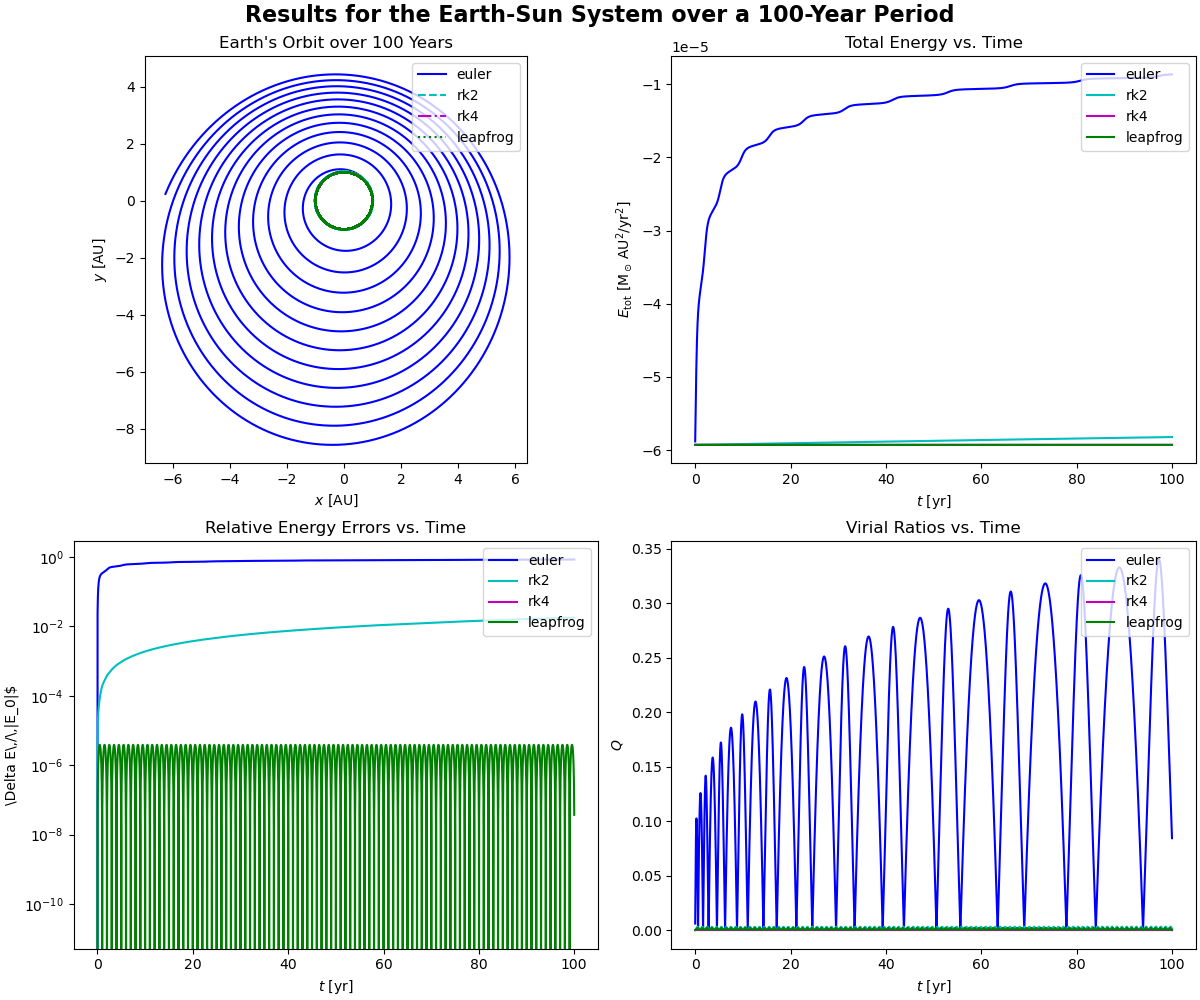
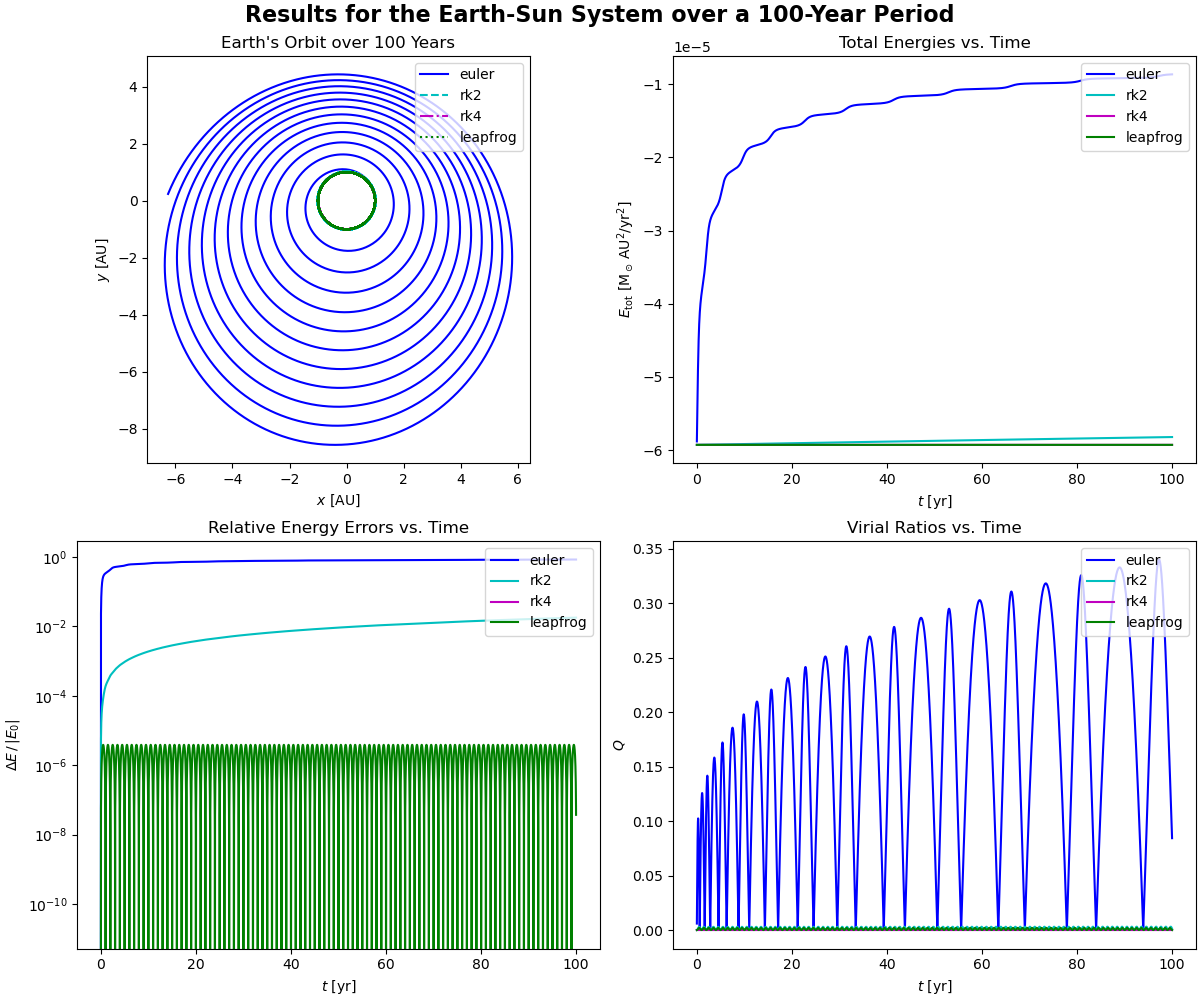
Completed Step 3, Phases A and B

diff --git a/src/NBody.py b/src/NBody.py
@@ -1,5 +1,24 @@
 """
 ODE integrator module to compute and plot gravitational dynamics for N-body system
+
+Table of Contents
+-----------------
+NBodyIntegrator
+
+EarthSun_test()
+EarthSun_plot()
+
+EarthJupiterSun_test()
+EarthJupiterSun_plot()
+
+ClusterUnifMass_test()
+ClusterUnifMass_plot()
+
+Cluster_loop_test()
+Cluster_loop_plot()
+
+Cluster_vecs_test()
+Cluster_vecs_plot()
 """
 
 import numpy as np
@@ -120,19 +139,23 @@ def EarthSun_test(years=10, dt=0.01, method='leapfrog'):
     Parameters
     ----------
     years  : float, optional
-        Simulation duration in years
+        Simulation duration in years (default: 10)
     dt     : float, optional
-        Time step (Δt) in years
+        Time step (Δt) in years (default: 0.01)
     method : {'euler', 'rk2', 'rk4', 'leapfrog'}, optional
-        ODE integration method
+        ODE integration method (default: 'leapfrog')
 
     Returns
     -------
-    earth_positions : (N, 3) array
-        Position of Earth at each simulated step in AU
-    energies        : (N, 3) array
-        Energy at each simulated step in M_sun * AU^2 / yr^2
+    earth_positions : (n_steps, 3) array
+        Position of Earth at each step in AU
+    energies        : (n_steps, 3) array
+        Energy at each step in M_sun * AU^2 / yr^2
         Includes kinetic, potential, total energy
+
+    Notes
+    -----
+    n_steps = int(years/dt)
     """
     
     # Initial parameters
@@ -177,9 +200,9 @@ def EarthSun_plot(years=10, dt=0.01, savefig=False):
     Parameters
     ----------
     years   : float, optional
-        Simulation duration in years
+        Simulation duration in years (default: 10)
     dt      : float, optional
-        Time step (Δt) in years
+        Time step (Δt) in years (default: 10)
     savefig : bool, optional
         Save figure as PNG (default: False)
     """
@@ -227,13 +250,13 @@ def EarthSun_plot(years=10, dt=0.01, savefig=False):
         energies = results[method]['energies']
         Etot = energies[:, 2]
         Etrue = Etot[0] # energy of system at t=0
-        rel_error = (Etot - Etrue) / abs(Etrue)
+        rel_error = np.abs(Etot - Etrue) / abs(Etrue)
         ax.plot(times, rel_error, label=method, color=colors[method])
 
     ax.set_yscale('log')
     ax.set_title("Relative Energy Errors vs. Time")
     ax.set_xlabel(r"$t\ \rm [yr]$")
-    ax.set_ylabel(r"\Delta E\,/\,|E_0|$")
+    ax.set_ylabel(r"$\Delta E\,/\,|E_0|$")
     ax.legend(loc=1)
 
     # Bottom right: virial ratios overtime
@@ -260,19 +283,23 @@ def EarthJupiterSun_test(years=24, dt=0.01, method='leapfrog'):
     Parameters
     ----------
     years  : float, optional
-        Simulation duration in years
+        Simulation duration in years (default: 24)
     dt     : float, optional
-        Time step (Δt) in years
+        Time step (Δt) in years (default: 0.01)
     method : {'euler', 'rk2', 'rk4', 'leapfrog'}, optional
-        ODE integration method
+        ODE integration method (default: 'leapfrog')
 
     Returns
     -------
-    all_positions : (N, 3, 3) array
+    all_positions : (n_steps, 3, 3) array
         Positions of Earth, Jupiter, Sun at each step
-    energies      : (N, 3) array
-        Energy at each simulated step in M_sun * AU^2 / yr^2
+    energies      : (n_steps, 3) array
+        Energy at each step in M_sun * AU^2 / yr^2
         Includes kinetic, potential, total energy
+
+    Notes
+    -----
+    n_steps = int(years/dt)
     """
 
     # Initial parameters
@@ -382,8 +409,8 @@ def EarthJupiterSun_plot(years=24, dt=0.01, savefig=False):
     for method in methods:
         energies = results[method]['energies']
         Etot = energies[:, 2]
-        Etrue = Etot[0]
-        rel_error = (Etot - Etrue) / abs(Etrue)
+        Etrue = Etot[0] # energy of system at t=0
+        rel_error = np.abs(Etot - Etrue) / abs(Etrue)
         ax.plot(times, rel_error, label=method,
                 color=colors[method], linestyle=linestyles[method])
 
@@ -413,3 +440,263 @@ def EarthJupiterSun_plot(years=24, dt=0.01, savefig=False):
     )
     if savefig: plt.savefig('EarthJupiterSun_plot.png')
     plt.show()
+
+def ClusterUnifMass_test(N=10, R=100, years=100, dt=0.01, method='leapfrog'):
+    """
+    Simulate simple N-body stellar cluster with chosen integrator
+    N stars of 1 M_sun, random positions in sphere of radius R, at rest
+
+    Parameters
+    ----------
+    N      : int, optional
+        Number of stars (default: 10)
+    R      : float, optional
+        Cluster radius in AU (default: 100)
+    years  : float, optional
+        Simulation duration in years (default: 100)
+    dt     : float, optional
+        Time step (Δt) in years (default: 0.01)
+    method : {'euler', 'rk2', 'rk4', 'leapfrog'}, optional
+        ODE integration method (default: 'leapfrog')
+
+    Returns
+    -------
+    all_positions : (n_steps, N, 3) array
+        Position of every star at each step
+    energies      : (n_steps, 3) array
+        Energy at each step in M_sun * AU^2 / yr^2
+        Includes kinetic, potential, total energy
+
+    Notes
+    -----
+    n_steps = int(years/dt)
+    """
+
+    pos = []
+    for _ in range(N):
+        # For each star, randomly generate positions until condition met
+        while True:
+            x, y, z = np.random.uniform(-R, R, 3)
+            # Condition: star must be within sphere
+            if x**2 + y**2 + z**2 <= R**2:
+                pos.append([x, y, z])
+                break
+
+    # Initial parameters
+    masses = np.ones(N)           # every star 1 M_sun
+    positions = np.array(pos)     # every star within cluster sphere
+    velocities = np.zeros((N, 3)) # every star at rest
+    epsilon = 0.01 * R / N**(1/3) # softening parameter (≈ 0.464 AU default)
+
+    # Create and run simulation
+    sim = NBodyIntegrator(masses, positions, velocities,
+                          epsilon=epsilon, method=method)
+    n_steps = int(years/dt)
+    all_positions, energies = [], []
+
+    for _ in range(n_steps):
+        sim.step(dt)
+        KE, PE, TE = sim.compute_energy()
+        all_positions.append(sim.positions.copy())
+        energies.append([KE, PE, TE])
+
+    # Return position and energies of every star calculated at each step
+    return np.array(all_positions), np.array(energies)
+
+def ClusterUnifMass_plot(N=10, R=100.0, years=100, dt=0.01, savefig=False):
+    """
+    Figure of 3 plots describing simulation results of simple N-body cluster
+    For more information, see parent function `ClusterUnifMass_test()`
+    Only RK4 and Leapfrog integration methods used
+
+    Parameters
+    ----------
+    N       : int, optional
+        Number of stars (default: 10)
+    R       : float, optional
+        Cluster radius in AU (default: 100)
+    years   : float, optional
+        Simulation duration in years (default: 100)
+    dt      : float, optional
+        Time step (Δt) in years (default: 0.01)
+    savefig : bool, optional
+        Save figure as PNG (default: False)
+    """
+
+    methods    = ['rk4', 'leapfrog']
+    colors     = {'rk4':'m', 'leapfrog':'g'}
+    linestyles = {'rk4':'-.', 'leapfrog':':'}
+
+    # Acquire simulation results once for both methods
+    results = {}
+    for method in methods:
+        _, energies = ClusterUnifMass_test(N=N, R=R,
+                                           years=years, dt=dt, method=method)
+        results[method] = {'energies': energies}
+
+    fig, axes = plt.subplots(3, 1, figsize=(10, 12), constrained_layout=True)
+    interval = results['rk4']['energies'].shape[0]
+    times = np.linspace(0, years, interval)
+
+    # Top: energy components overtime
+    ax = axes[0]
+    for method in methods:
+        energies = results[method]['energies']
+        KE, PE, TE = energies[:, 0], energies[:, 1], energies[:, 2]
+        ax.plot(times, KE, label=rf"$E_{{\rm K}}$ ({method})",
+                color=colors[method], linestyle="--", alpha=0.6)
+        ax.plot(times, PE, label=f"$W$ ({method})",
+                color=colors[method], linestyle=":", alpha=0.6)
+        ax.plot(times, TE, label=rf"$E_{{\rm tot}}$ ({method})",
+                color=colors[method], linestyle="-", alpha=1.0, linewidth=1.8)
+
+    ax.set_title("Energy Components vs. Time")
+    ax.set_xlabel(r"$t\ \rm [yr]$")
+    ax.set_ylabel(r"$E\ \rm [M_\odot\,AU^2/yr^2]$")
+    ax.legend(loc=1)
+
+    # Middle: relative energy errors overtime
+    ax = axes[1]
+    for method in methods:
+        energies = results[method]['energies']
+        Etot = energies[:, 2]
+        Etrue = Etot[0] # energy of system at t=0
+        rel_error = np.abs(Etot - Etrue) / abs(Etrue)
+        ax.plot(times, rel_error, label=method,
+                color=colors[method], linestyle=linestyles[method])
+    ax.set_yscale('log')
+    ax.set_title("Relative Energy Errors vs. Time")
+    ax.set_xlabel(r"$t\ \rm [yr]$")
+    ax.set_ylabel(r"$\Delta E\,/\,|E_0|$")
+    ax.legend(loc=1)
+
+    # Bottom: virial ratios overtime
+    ax = axes[2]
+    for method in methods:
+        energies = results[method]['energies']
+        KE, PE = energies[:, 0], energies[:, 1]
+        Q = np.abs(2*KE + PE) / np.abs(PE)
+        ax.plot(times, Q, label=method,
+                color=colors[method], linestyle=linestyles[method])
+    ax.set_title("Virial Ratios vs. Time")
+    ax.set_xlabel(r"$t\ \rm [yr]$")
+    ax.set_ylabel("$Q$")
+    ax.legend(loc=1)
+
+    fig.suptitle(
+        f"Results for the {N}-Body Cluster over a {years}-Year Period",
+        fontsize=15, weight='bold'
+    )
+    if savefig: plt.savefig("ClusterUnifMass_plot.png")
+    plt.show()
+
+def Cluster_loop_test(N=100, a=1000, years=1000, dt=0.01, method='leapfrog'):
+    """
+    Simulate N-body stellar cluster with chosen integrator and improvements:
+    1. Masses from Kroupa Initial Mass Function (IMF)
+    2. Positions from Plummer sphere
+    3. Velocities in virial equilibrium
+
+    Parameters
+    ----------
+    N      : int, optional
+        Number of stars (default: 100)
+    a      : float, optional
+        Plummer radius in AU (default: 1000)
+    years  : float, optional
+        Simulation duration in years (default: 100)
+    dt     : float, optional
+        Time step (Δt) in years (default: 0.01)
+    method : {'euler', 'rk2', 'rk4', 'leapfrog'}, optional
+        ODE integration method (default: 'leapfrog', highly recommended)
+
+    Returns
+    -------
+    all_positions : (n_steps, N, 3) array
+        Position of every star at each step
+    energies      : (n_steps, 3) array
+        Energy at each step in M_sun * AU^2 / yr^2
+        Includes kinetic, potential, total energy
+
+    Notes
+    -----
+    n_steps = int(years/dt)
+    """
+
+    ### 1. Sample masses from Kroupa IMF ###
+    def sample_powerlaw(alpha, a, b, n_stars):
+        """
+        Sample from m^-α between [a, b] using inverse CDF
+        m = [a^(1-α) + U(0, 1) * (b^(1-α) - a^(1-α))]^(1 / 1-α)
+        """
+
+        u = np.random.uniform(1e-12, 1 - 1e-12, size=n_stars)
+        return \
+            (a**(1-alpha) + u * (b**(1-alpha) - a**(1-alpha)))**(1/(1-alpha))
+
+    # Compute normalization constants
+    m_min, m_break, m_max = 0.08, 0.5, 150.0 
+    alpha1, alpha2 = 1.3, 2.3
+
+    I1 = (m_break**(1-alpha1) - m_min**(1-alpha1)) / (1-alpha1)
+    I2 = (m_max**(1-alpha2) - m_break**(1-alpha2)) / (1-alpha2)
+    A1 = N / (I1 + m_break**(alpha2-alpha1) * I2)
+    A2 = A1 * m_break**(alpha2 - alpha1) # not needed, as P2 = 1 - P1
+    P1 = (A1 * I1) / N  # probability of being in low-mass segment
+
+    # Draw masses
+    masses = []
+    for _ in range(N):
+        if np.random.rand() < P1:
+            masses.append(sample_powerlaw(alpha1, m_min, m_break, 1)[0])
+        else:
+            masses.append(sample_powerlaw(alpha2, m_break, m_max, 1)[0])
+    masses = np.array(masses)
+
+    ### 2. Sample positions from Plummer sphere ###
+    u = np.random.uniform(1e-12, 1 - 1e-12, N) # bounds to prevent bad values
+    r = a * (u**(-2/3) - 1)**(-1/2)            # radial distances
+
+    # Convert to spherical coordinates
+    phi = 2 * np.pi * np.random.uniform(0, 1, N)
+    cos_theta = 1 - 2 * np.random.uniform(0, 1, N)
+    sin_theta = np.sqrt(1 - cos_theta**2) # following sin^2(θ) + cos^2(θ) = 1
+
+    x = r * sin_theta * np.cos(phi)
+    y = r * sin_theta * np.sin(phi)
+    z = r * cos_theta
+    positions = np.vstack((x, y, z)).T
+
+    # Adjust center of mass (CoM) positions with weighted average
+    r_CoM = np.average(positions, axis=0, weights=masses)
+    positions -= r_CoM
+
+    ### 3. Sample velocities from virial equilibrium ###
+    sigmas = np.sqrt(
+        ((4 * np.pi**2) * np.sum(masses) / (6*a)) * (1 + (r/a)**2)**(-1/2)
+    ) # σ^2(r) = (GM/6a) / √(1 + r^2 / a^2), with σ in AU/yr and 1D
+
+    vx = np.random.normal(0, sigmas)
+    vy = np.random.normal(0, sigmas)
+    vz = np.random.normal(0, sigmas)
+    velocities = np.vstack((vx, vy, vz)).T
+
+    # Adjust CoM velocities with weighted average
+    v_cm = np.average(velocities, axis=0, weights=masses)
+    velocities -= v_cm
+
+    ### Create and run simulation ###
+    epsilon = 0.01 * a / N**(1/3) # softening parameter (≈ 2.154 AU default)
+    sim = NBodyIntegrator(masses, positions, velocities,
+                          epsilon=epsilon, method=method)
+    n_steps = int(years / dt)
+    all_positions, energies = [], []
+
+    for _ in range(n_steps):
+        sim.step(dt)
+        KE, PE, TE = sim.compute_energy()
+        all_positions.append(sim.positions.copy())
+        energies.append([KE, PE, TE])
+
+    # Return position and energies of every star calculated at each step
+    return np.array(all_positions), np.array(energies)
